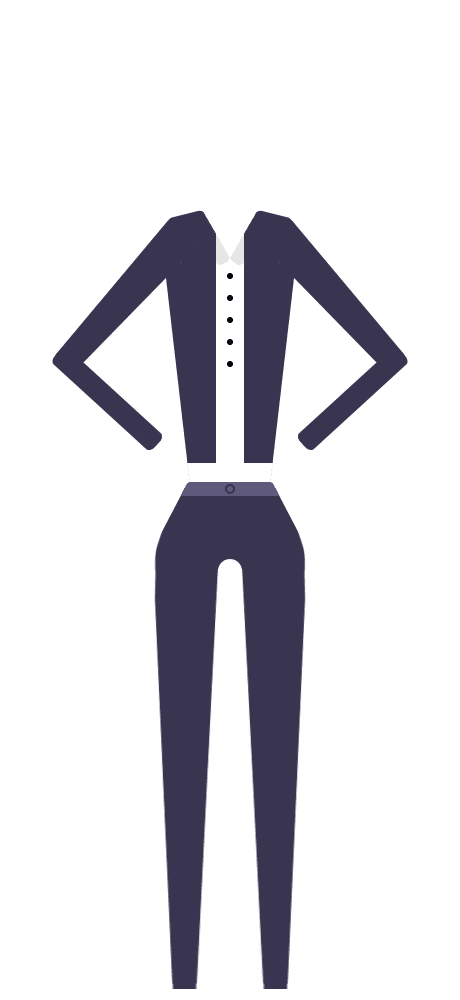
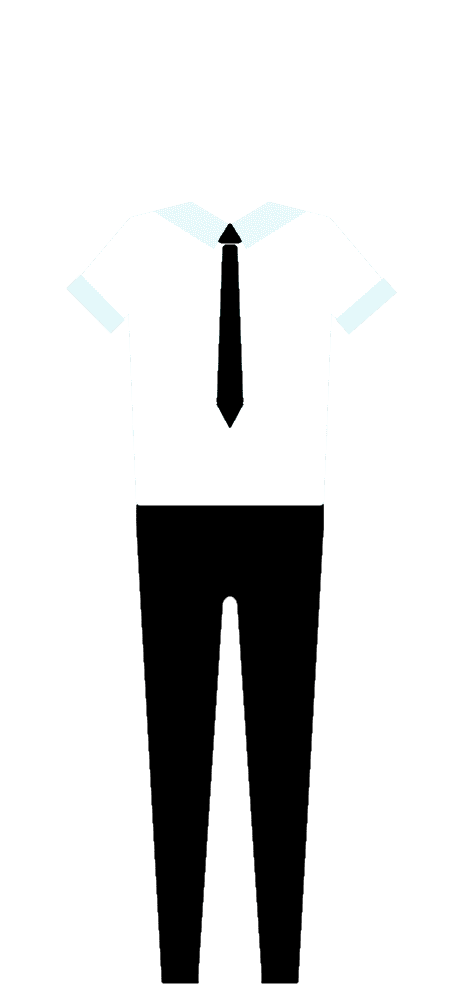
21.04.2018.result-2(add slides)

Changed region(s): [[0.1217, 0.186, 0.8826, 0.992]]

diff --git a/jsdiploma/js/script.js b/jsdiploma/js/script.js
@@ -134,8 +134,8 @@ window.addEventListener('DOMContentLoaded', function(){
 			};
 
 	//разделение одежды и прически на мужскую/женскую
-	for (let i = 0; i < 6; i++) {
-		if (i<3) {
+	for (let i = 0; i < 8; i++) {
+		if (i<4) {
 			allHair[i].classList.add('man');
 			allClothes[i].classList.add('man');
 		} else {
@@ -183,7 +183,7 @@ window.addEventListener('DOMContentLoaded', function(){
 			
 			hairMan[0].style.display = 'block';
 			clothesMan[0].style.display = 'block';
-			for (let i = 0; i<3; i++) {
+			for (let i = 0; i < 4; i++) {
 				hairWoman[i].style.display = 'none';
 				clothesWoman[i].style.display = 'none';
 				skin[i].style.display = 'none';
@@ -199,14 +199,14 @@ window.addEventListener('DOMContentLoaded', function(){
  			myCandidate.sex = 'Мужской';
  			
  		} else {
- 			personSkin.style.backgroundImage = 'url("../img/skin/skin-4.png")';
- 			personClothes.style.backgroundImage = 'url("../img/clothes/construct/clothes-4.png")';
-			personHair.style.backgroundImage = 'url("../img/hair/construct/hair-4.png")';
+ 			personSkin.style.backgroundImage = 'url("../img/skin/skin-5.png")';
+ 			personClothes.style.backgroundImage = 'url("../img/clothes/construct/clothes-5.png")';
+			personHair.style.backgroundImage = 'url("../img/hair/construct/hair-5.png")';
 			personShoes.style.backgroundImage = 'url(../img/clothes/construct/shoes-2.png)';
 			
 			hairWoman[0].style.display = 'block';
 			clothesWoman[0].style.display = 'block';
-			for (let i = 0; i<3; i++) {
+			for (let i = 0; i < 4; i++) {
 				hairMan[i].style.display = 'none';
 				clothesMan[i].style.display = 'none';
 				skin[i].style.display = 'none';
@@ -216,9 +216,9 @@ window.addEventListener('DOMContentLoaded', function(){
  			hair = hairWoman;
  			skin[0].style.display = 'block';
 
-			myCandidate.skinNumber = 4;
-			myCandidate.hairNumber = 4;
-			myCandidate.clothesNumber = 4;
+			myCandidate.skinNumber = 5;
+			myCandidate.hairNumber = 5;
+			myCandidate.clothesNumber = 5;
  			myCandidate.sex = 'Женский';
 
  		}	
@@ -271,7 +271,7 @@ window.addEventListener('DOMContentLoaded', function(){
   	if (myCandidate.sex === 'Мужской') {
   		showIndex = slideIndex;
   	} else {
-  		showIndex = slideIndex+3;
+  		showIndex = slideIndex+4;
   	}
   	myCandidate.skinNumber = showIndex;
   	personSkin.style.backgroundImage = 'url("../img/skin/skin-'+ showIndex +'.png")';
@@ -311,7 +311,7 @@ window.addEventListener('DOMContentLoaded', function(){
   	if (myCandidate.sex === 'Мужской') {
   		showIndex = slideIndex;
   	} else {
-  		showIndex = slideIndex+3;
+  		showIndex = slideIndex+4;
   	}
   	myCandidate.hairNumber = showIndex;
   	personHair.style.backgroundImage = 'url("../img/hair/construct/hair-'+ showIndex +'.png")';
@@ -353,7 +353,7 @@ window.addEventListener('DOMContentLoaded', function(){
   	if (myCandidate.sex === 'Мужской') {
   		showIndex = slideIndex;
   	} else {
-  		showIndex = slideIndex+3;
+  		showIndex = slideIndex+4;
   	}
   	myCandidate.clothesNumber = showIndex;
   	personClothes.style.backgroundImage = 'url("../img/clothes/construct/clothes-'+ showIndex +'.png")';
@@ -504,7 +504,7 @@ window.addEventListener('DOMContentLoaded', function(){
 		personShoes.style.backgroundImage = 'url(../img/clothes/construct/shoes.png)';
 		
 		
-		for (let i = 0; i<3; i++) {
+		for (let i = 0; i<4; i++) {
 			hairWoman[i].style.display = 'none';
 			clothesWoman[i].style.display = 'none';
 			skin[i].style.display = 'none';

diff --git a/jsdiploma/sass/style.sass b/jsdiploma/sass/style.sass
@@ -445,6 +445,12 @@
                     height: 80px
                     border-radius: 10px
                     background-color: #a5673f
+                &-4
+                    display: none
+                    width: 160px
+                    height: 80px
+                    border-radius: 10px
+                    background-color: #DDA95A
         .hair-style
             &-1
                 width: 160px
@@ -485,6 +491,20 @@
                 width: 160px
                 height: 80px
                 background: #f2f2f2 url(../img/hair/slide/hair-6.png) center no-repeat
+                background-size: 40%
+                border-radius: 10px
+            &-7
+                display: none
+                width: 160px
+                height: 80px
+                background: #f2f2f2 url(../img/hair/slide/hair-7.png) center no-repeat
+                background-size: 40%
+                border-radius: 10px
+            &-8
+                display: none
+                width: 160px
+                height: 80px
+                background: #f2f2f2 url(../img/hair/slide/hair-8.png) center no-repeat
                 background-size: 40%
                 border-radius: 10px
 
@@ -528,6 +548,20 @@
                 width: 160px
                 height: 80px
                 background: #aeaeae url(../img/clothes/slide/clothes-6.png) center no-repeat
+                background-size: 20%
+                border-radius: 10px
+            &-7
+                display: none
+                width: 160px
+                height: 80px
+                background: #aeaeae url(../img/clothes/slide/clothes-7.png) center no-repeat
+                background-size: 20%
+                border-radius: 10px
+            &-8
+                display: none
+                width: 160px
+                height: 80px
+                background: #aeaeae url(../img/clothes/slide/clothes-8.png) center no-repeat
                 background-size: 20%
                 border-radius: 10px
 

diff --git a/jsdiploma/css/style.css b/jsdiploma/css/style.css
@@ -623,6 +623,16 @@
   background-color: #a5673f;
 }
 
+.custom-style .skin-color-4,
+.custom-style .hair-color-4,
+.custom-style .clothes-color-4 {
+  display: none;
+  width: 160px;
+  height: 80px;
+  border-radius: 10px;
+  background-color: #DDA95A;
+}
+
 .custom-style .hair-style-1 {
   width: 160px;
   height: 80px;
@@ -676,6 +686,24 @@
   border-radius: 10px;
 }
 
+.custom-style .hair-style-7 {
+  display: none;
+  width: 160px;
+  height: 80px;
+  background: #f2f2f2 url("../img/hair/slide/hair-7.png") center no-repeat;
+  background-size: 40%;
+  border-radius: 10px;
+}
+
+.custom-style .hair-style-8 {
+  display: none;
+  width: 160px;
+  height: 80px;
+  background: #f2f2f2 url("../img/hair/slide/hair-8.png") center no-repeat;
+  background-size: 40%;
+  border-radius: 10px;
+}
+
 .custom-style .clothes-style-1 {
   width: 160px;
   height: 80px;
@@ -725,6 +753,24 @@
   width: 160px;
   height: 80px;
   background: #aeaeae url("../img/clothes/slide/clothes-6.png") center no-repeat;
+  background-size: 20%;
+  border-radius: 10px;
+}
+
+.custom-style .clothes-style-7 {
+  display: none;
+  width: 160px;
+  height: 80px;
+  background: #aeaeae url("../img/clothes/slide/clothes-7.png") center no-repeat;
+  background-size: 20%;
+  border-radius: 10px;
+}
+
+.custom-style .clothes-style-8 {
+  display: none;
+  width: 160px;
+  height: 80px;
+  background: #aeaeae url("../img/clothes/slide/clothes-8.png") center no-repeat;
   background-size: 20%;
   border-radius: 10px;
 }

diff --git a/jsdiploma/index.html b/jsdiploma/index.html
@@ -111,6 +111,7 @@
 					<div class="skin-color skin-color-1"></div>
 					<div class="skin-color skin-color-2"></div>
 					<div class="skin-color skin-color-3"></div>
+					<div class="skin-color skin-color-4"></div>
 				<div class="next">
 					<i class="flaticon-right-arrow"></i>
 				</div>
@@ -128,6 +129,8 @@
 					<div class="hair-style hair-style-4"></div>
 					<div class="hair-style hair-style-5"></div>
 					<div class="hair-style hair-style-6"></div>
+					<div class="hair-style hair-style-7"></div>
+					<div class="hair-style hair-style-8"></div>
 				<div class="next">
 					<i class="flaticon-right-arrow"></i>
 				</div>
@@ -145,6 +148,8 @@
 					<div class="clothes-style clothes-style-4"></div>
 					<div class="clothes-style clothes-style-5"></div>
 					<div class="clothes-style clothes-style-6"></div>
+					<div class="clothes-style clothes-style-7"></div>
+					<div class="clothes-style clothes-style-8"></div>
 				<div class="next">
 					<i class="flaticon-right-arrow"></i>
 				</div>
